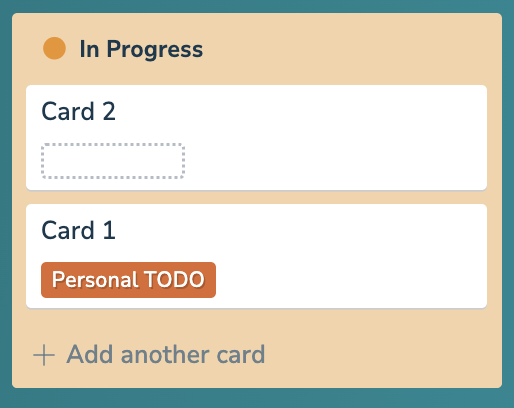
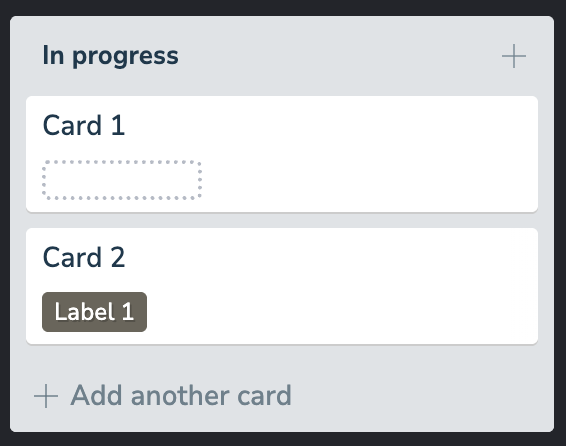
updated screen shot for add a card button

diff --git a/README.md b/README.md
@@ -28,7 +28,7 @@ These are the additional preferences.
 
 <img src="assets/newpreferences.png" height="250px" alt="Label placeholder">
 
-And this is what the label placeholder looks like.
+And this is what the label placeholder and add a card button look like.
 
 <img src="assets/labelplaceholder.png" height="250px" alt="Label placeholder">
 
